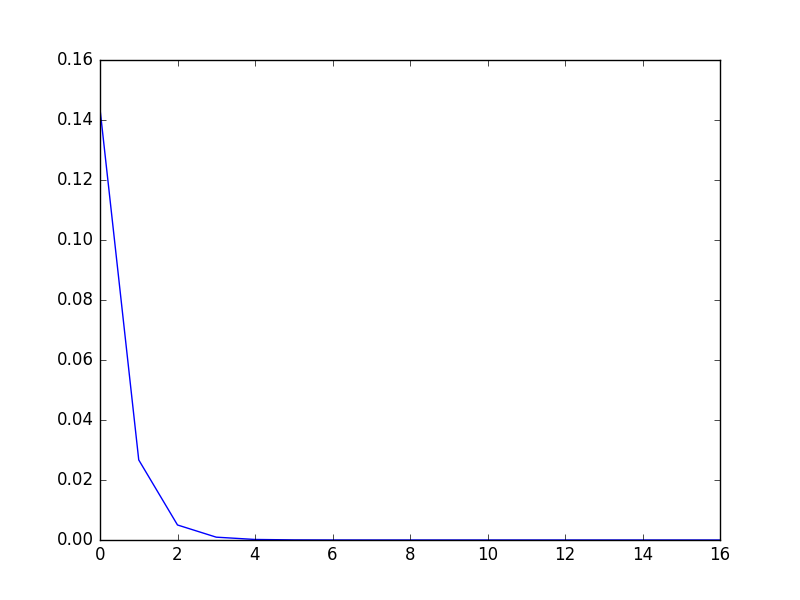
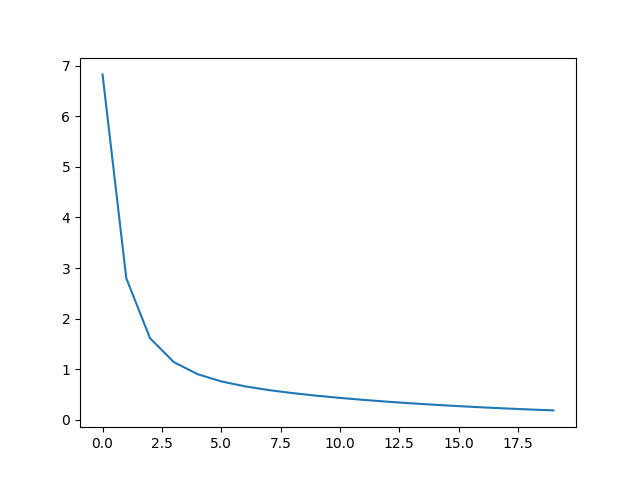
update readme and figures

diff --git a/test_new.py b/test_new.py
@@ -3,7 +3,6 @@ import numpy as np
 
 # 说明：
 # 数据个数 num_samples 个，每个数据都是以同一个theta作为最小值点的 n_dimension 元二次函数
-# 每个函数(数据)进行 unroll 次优化
 # 每个 epoch 只有一个batch，就是把所有 num_samples 个函数的loss加起来作为总loss然后进行优化
 # 一共有 max_epoch 个epoch
 
@@ -17,7 +16,7 @@ num_layers = 2 # LSTM的层数
 
 max_epoch = 20
 
-optim_method = "lstm"
+optim_method = "SGD"
 
 # W 和 y 是训练数据, theta是模型参数
 def get_n_samples(n_dimension, n): # 一次取得n个样本
@@ -84,9 +83,8 @@ class LSTMOptimizer(tf.keras.Model):
 
 LSTM_optimizer = LSTMOptimizer(hidden_size, num_layers, n_dimension, batch_size=1)
 checkpoint = tf.train.Checkpoint(model=LSTM_optimizer)   # 键名保持为“myAwesomeModel”
-checkpoint.restore('LSTM_optimizer.tf-1')
+checkpoint.restore('./models/LSTM_optimizer.tf-1')
 
-# 每个函数做 n_unroll 次叭, 最后的 loss 作为这个函数的 loss
 # 这里每个 epoch 都是同一个函数，相当于对一个函数做了 max_epoch 次
 def train_step(W, y): 
     LSTM_optimizer.refresh_state()
@@ -123,6 +121,13 @@ def train(epochs):
 def main():
     train(epochs = max_epoch)
     print(loss_history, sep='\n')
+
+    import matplotlib.pyplot as plt
+    #loss_history = loss_history[3:]
+    plt.plot(range(len(loss_history)), loss_history)
+    imagename = "figure_" + optim_method + ".png"
+    plt.savefig(imagename)	
+    plt.show()
 
 if __name__ == "__main__":
     main()

diff --git a/train_optimizer_new.py b/train_optimizer_new.py
@@ -125,7 +125,7 @@ def train():
     #LSTM_optimizer.save('LSTM_optimizer.tf', save_format='tf')
     #LSTM_optimizer.save_weights('LSTM_optimizer.h5')
     checkpoint = tf.train.Checkpoint(model=LSTM_optimizer)
-    checkpoint.save('LSTM_optimizer.tf')
+    checkpoint.save('./models/LSTM_optimizer.tf')
 
 if __name__ == "__main__":
     train()

diff --git a/README.md b/README.md
@@ -13,26 +13,53 @@
 ## 要求
 
 ```
-python 3.5.2
-tensorflow 1.10
-numpy 1.13
+python 3.7
+tensorflow 2.0
+numpy 1.16.5
+matplotlib 3.1.2
 ```
 
 ## 说明
 
-只实现了论文中的第一个部分，训练一个寻找二次函数最小值的优化器。
+本项目复现了论文中的第一个实验：训练一个**寻找多元二次函数最小值的优化器**
 
-运行`python train_optimizer.py` 来训练一个optimizer
+运行 `python train_optimizer.py` 或 `python train_optimizer_new.py` 来训练一个优化器
 
-运行`python main.py` 来测试训练好的optimizer的效果
+运行 `python test.py` 或 `python test_new.py` 来进行测试
 
-参数的信息在代码中有详细说明，期中`main.py`可以使用SGD来进行效果对比
+**两者的不同：**
+- 有`_new`后缀的是完全使用tensorflow2.0动态图的版本
+- 没有`_new`后缀的测试部分使用了动态图，优化器训练部分使用了静态图（部分借鉴了[runopti的项目](https://github.com/runopti/Learning-To-Learn)）
+
+本项目的代码逻辑可能和DeepMind官方项目有所不同，下面将详细说明：
+
+### 训练优化器部分
+
+- 每个 epoch 采样 num_samples 个数据，这些数据都是以同一个theta作为最小值点的 n_dimension 元二次函数
+
+- 这些数据（函数），每个用待训练的优化器进行 n_unroll 次优化，每次优化后的loss加起来
+
+- 所有数据的loss加起来平均作为这次的loss，使用这个loss来训练优化器
+
+### 测试部分
+
+- 共有 num_samples 个数据，每个 epoch 使用相同的数据；这些数据都是以同一个theta作为最小值点的 n_dimension 元二次函数
+
+- 每个函数(数据)进行 unroll 次优化
+
+- 每个 epoch 只有一个batch，就是把所有 num_samples 个函数的loss加起来作为总loss然后进行优化
+
+- （有一个问题，这里测试显示每次清lstm的状态比不清要好QwQ）
+
+### 其他
+
+`MyModel`是优化器的目标模型，可以通过修改MyModel来使优化器适用于其他任务。
 
 ## 效果展示
 
 当前复现的效果比SGD差一点。
 
-使用lstm训练的optimizer的优化效果:![](figure_lstm.png)
+使用lstm训练的优化器的优化效果:![](figure_lstm.png)
 
 使用SGD的优化效果：![](figure_SGD.png)
 
